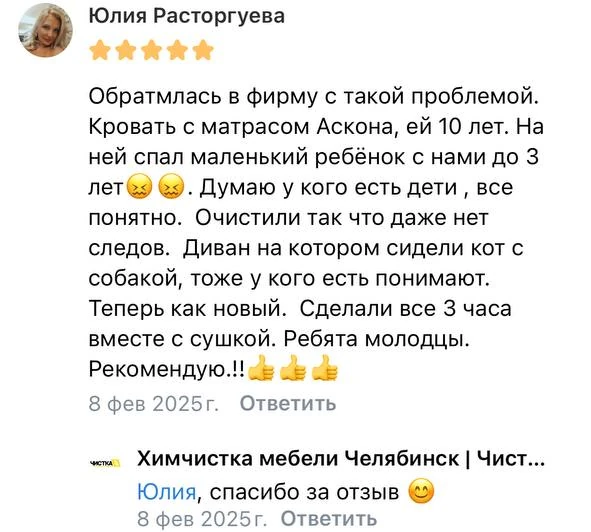
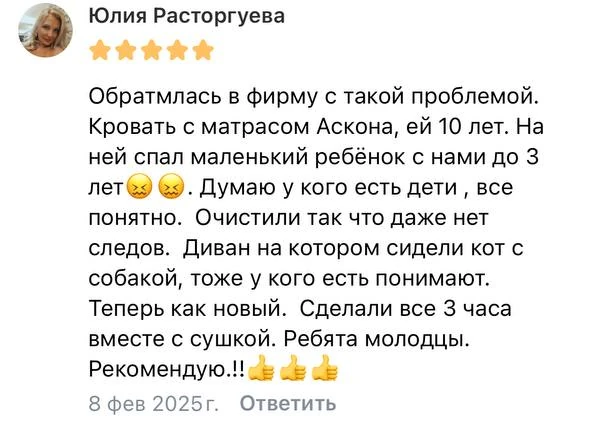
Отзывы: убраны ответы компании под отзывами, подпись про сеть «Чистка»
Claude-Session: https://claude.ai/code/session_01DTk4vt6VHPrMetnV6K7HFG

Changed region(s): [[0.1523, 0.0, 0.9137, 1.0], [0.0305, 0.0, 0.1218, 0.1533]]

diff --git a/site/index.html b/site/index.html
@@ -444,9 +444,9 @@ document.querySelectorAll('.ba').forEach(function(el){
       <div class="bento-head">
         <span class="bento-label">Отзывы</span>
         <h2>Что говорят наши клиенты</h2>
-        <p class="bento-sub">Скриншоты отзывов из нашей группы ВКонтакте — без правок.</p>
+        <p class="bento-sub">Отзывы клиентов нашей сети «Чистка» из ВКонтакте — скриншоты без правок.</p>
       </div>
-      <div class="rev-grid"><figure class="rev-card"><picture><source srcset="assets/img/otzyv-1.webp?v=2f6cbddf" type="image/webp"><img src="assets/img/otzyv-1.jpg?v=f28f6a9d" alt="Отзыв клиента из ВКонтакте" width="591" height="393" loading="lazy"></picture></figure><figure class="rev-card"><picture><source srcset="assets/img/otzyv-2.webp?v=9cf10064" type="image/webp"><img src="assets/img/otzyv-2.jpg?v=59516336" alt="Отзыв клиента из ВКонтакте" width="591" height="486" loading="lazy"></picture></figure><figure class="rev-card"><picture><source srcset="assets/img/otzyv-3.webp?v=9a02b07e" type="image/webp"><img src="assets/img/otzyv-3.jpg?v=11da6eab" alt="Отзыв клиента из ВКонтакте" width="591" height="364" loading="lazy"></picture></figure><figure class="rev-card"><picture><source srcset="assets/img/otzyv-4.webp?v=6d66ecd9" type="image/webp"><img src="assets/img/otzyv-4.jpg?v=ba2dfa52" alt="Отзыв клиента из ВКонтакте" width="591" height="334" loading="lazy"></picture></figure><figure class="rev-card"><picture><source srcset="assets/img/otzyv-5.webp?v=dc23cd62" type="image/webp"><img src="assets/img/otzyv-5.jpg?v=dc677754" alt="Отзыв клиента из ВКонтакте" width="591" height="532" loading="lazy"></picture></figure><figure class="rev-card"><picture><source srcset="assets/img/otzyv-6.webp?v=950689e3" type="image/webp"><img src="assets/img/otzyv-6.jpg?v=75534634" alt="Отзыв клиента из ВКонтакте" width="591" height="424" loading="lazy"></picture></figure></div>
+      <div class="rev-grid"><figure class="rev-card"><picture><source srcset="assets/img/otzyv-1.webp?v=9eba223b" type="image/webp"><img src="assets/img/otzyv-1.jpg?v=ec382741" alt="Отзыв клиента из ВКонтакте" width="591" height="260" loading="lazy"></picture></figure><figure class="rev-card"><picture><source srcset="assets/img/otzyv-2.webp?v=9cf10064" type="image/webp"><img src="assets/img/otzyv-2.jpg?v=59516336" alt="Отзыв клиента из ВКонтакте" width="591" height="486" loading="lazy"></picture></figure><figure class="rev-card"><picture><source srcset="assets/img/otzyv-3.webp?v=9a02b07e" type="image/webp"><img src="assets/img/otzyv-3.jpg?v=11da6eab" alt="Отзыв клиента из ВКонтакте" width="591" height="364" loading="lazy"></picture></figure><figure class="rev-card"><picture><source srcset="assets/img/otzyv-4.webp?v=6d66ecd9" type="image/webp"><img src="assets/img/otzyv-4.jpg?v=ba2dfa52" alt="Отзыв клиента из ВКонтакте" width="591" height="334" loading="lazy"></picture></figure><figure class="rev-card"><picture><source srcset="assets/img/otzyv-5.webp?v=97590ed1" type="image/webp"><img src="assets/img/otzyv-5.jpg?v=ec64e385" alt="Отзыв клиента из ВКонтакте" width="591" height="424" loading="lazy"></picture></figure><figure class="rev-card"><picture><source srcset="assets/img/otzyv-6.webp?v=950689e3" type="image/webp"><img src="assets/img/otzyv-6.jpg?v=75534634" alt="Отзыв клиента из ВКонтакте" width="591" height="424" loading="lazy"></picture></figure></div>
     </div>
   </div>
 </section>

diff --git a/generate.py b/generate.py
@@ -1802,7 +1802,7 @@ def render_service_page(s):
 # =========================================================================
 # 8. ГЛАВНАЯ СТРАНИЦА
 # =========================================================================
-REV_SIZES = [(1, 393), (2, 486), (3, 364), (4, 334), (5, 532), (6, 424)]
+REV_SIZES = [(1, 260), (2, 486), (3, 364), (4, 334), (5, 424), (6, 424)]
 
 def render_index():
     path = "index.html"
@@ -2029,7 +2029,7 @@ document.querySelectorAll('.ba').forEach(function(el){{
       <div class="bento-head">
         <span class="bento-label">Отзывы</span>
         <h2>Что говорят наши клиенты</h2>
-        <p class="bento-sub">Скриншоты отзывов из нашей группы ВКонтакте — без правок.</p>
+        <p class="bento-sub">Отзывы клиентов нашей сети «Чистка» из ВКонтакте — скриншоты без правок.</p>
       </div>
       <div class="rev-grid">{rev_cards}</div>
     </div>
